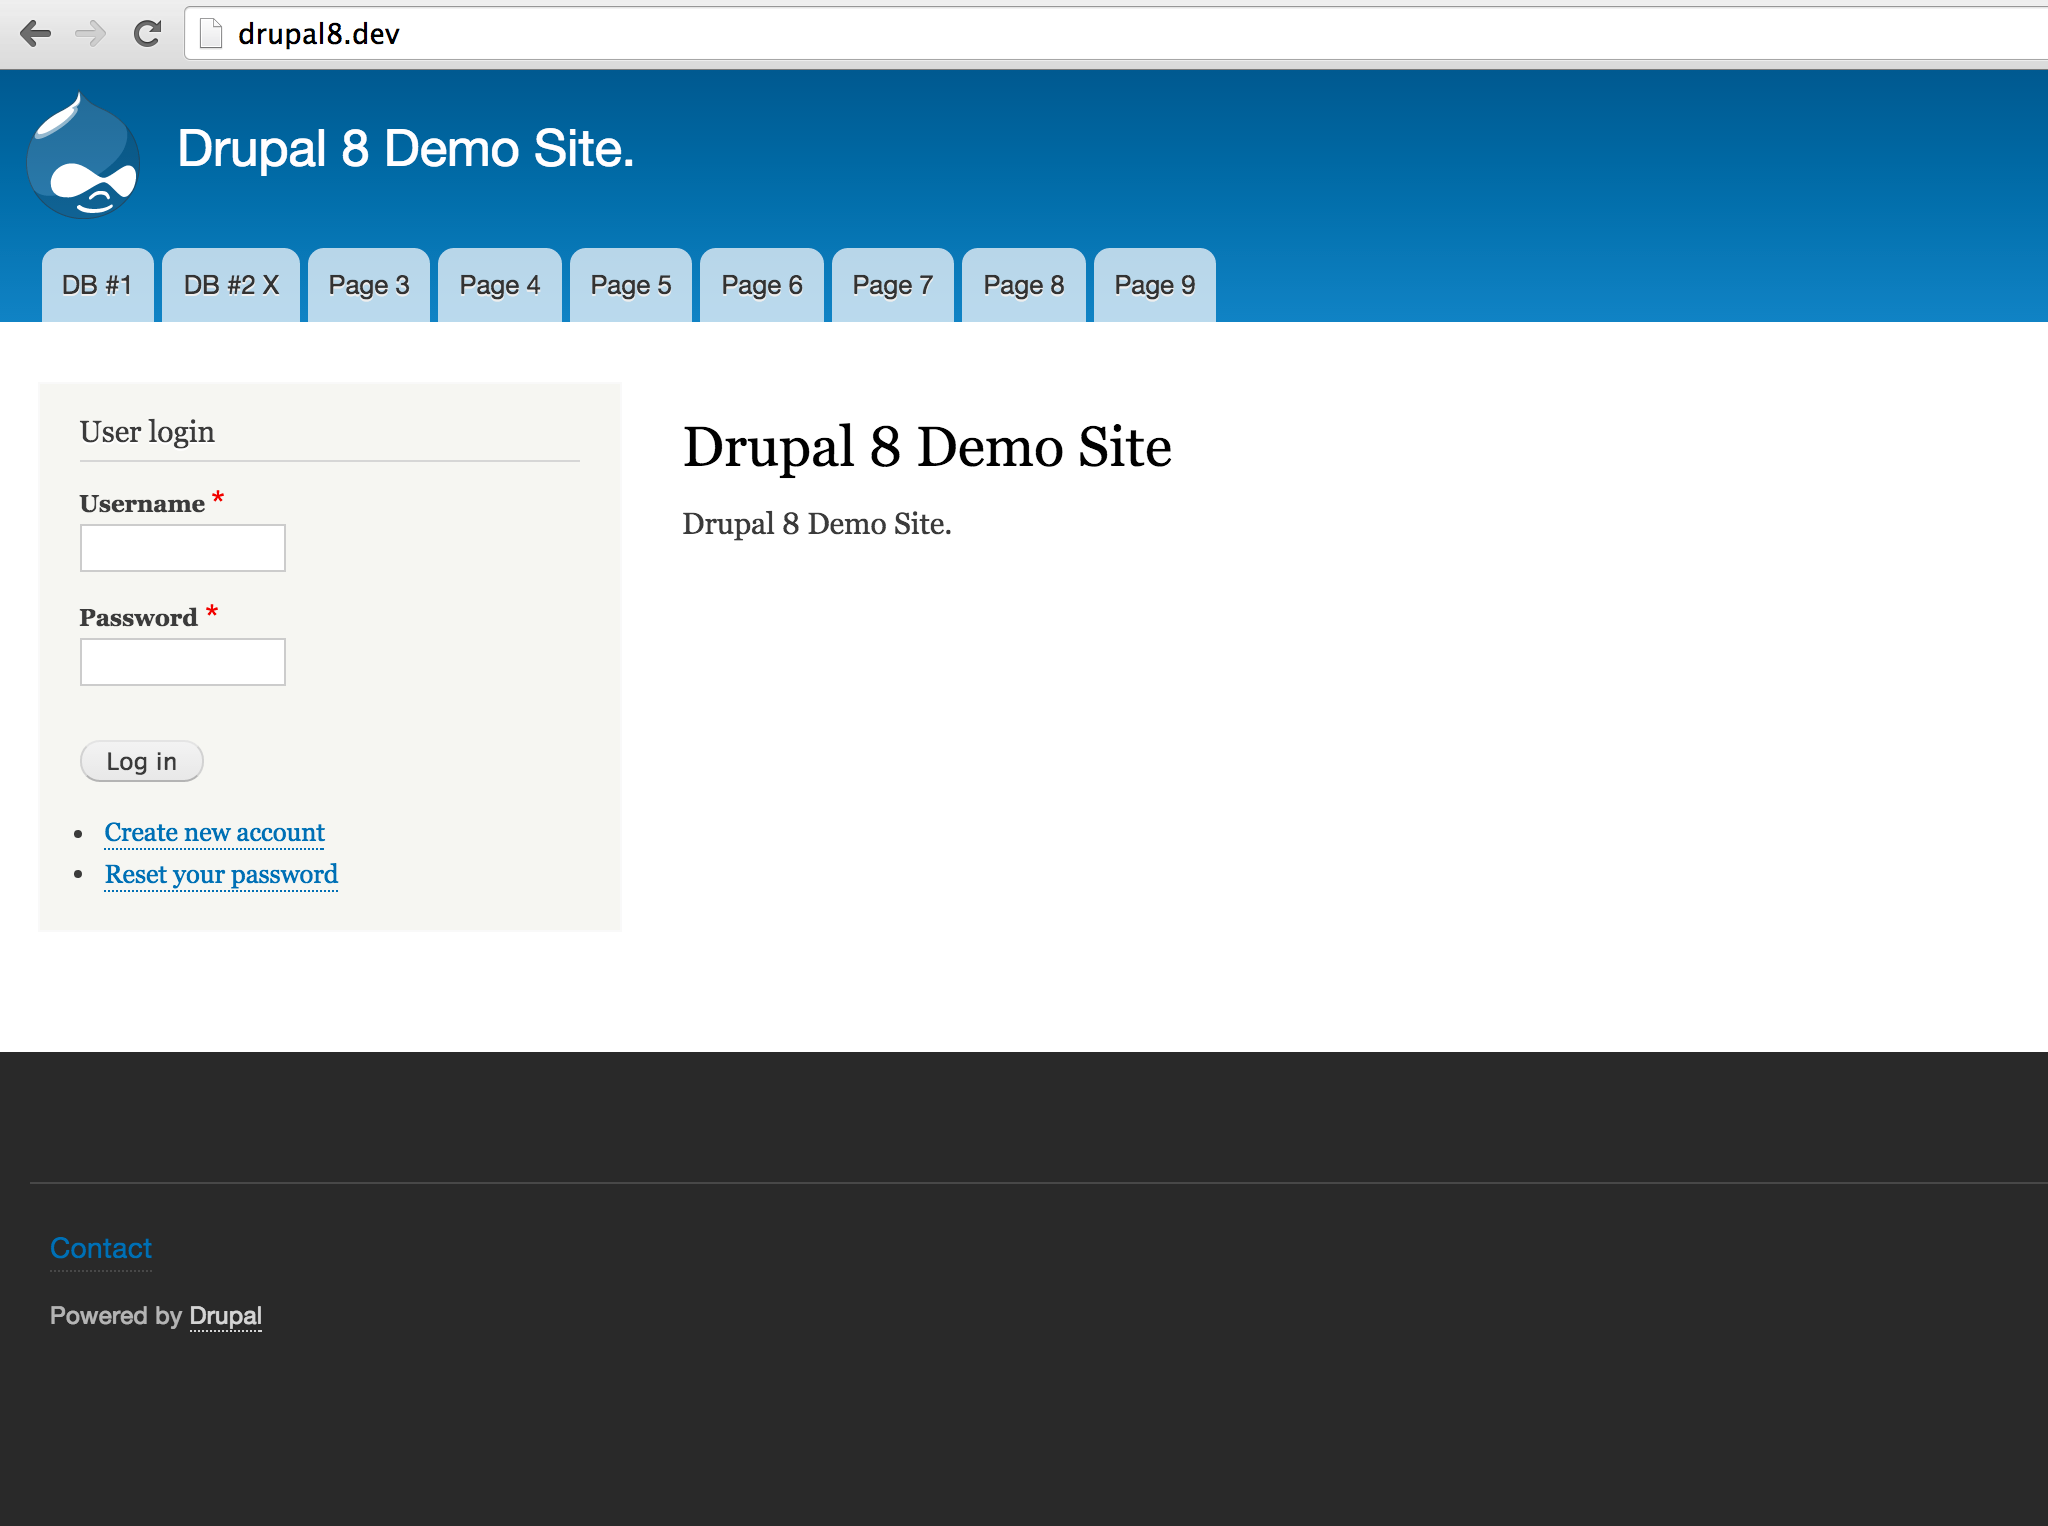
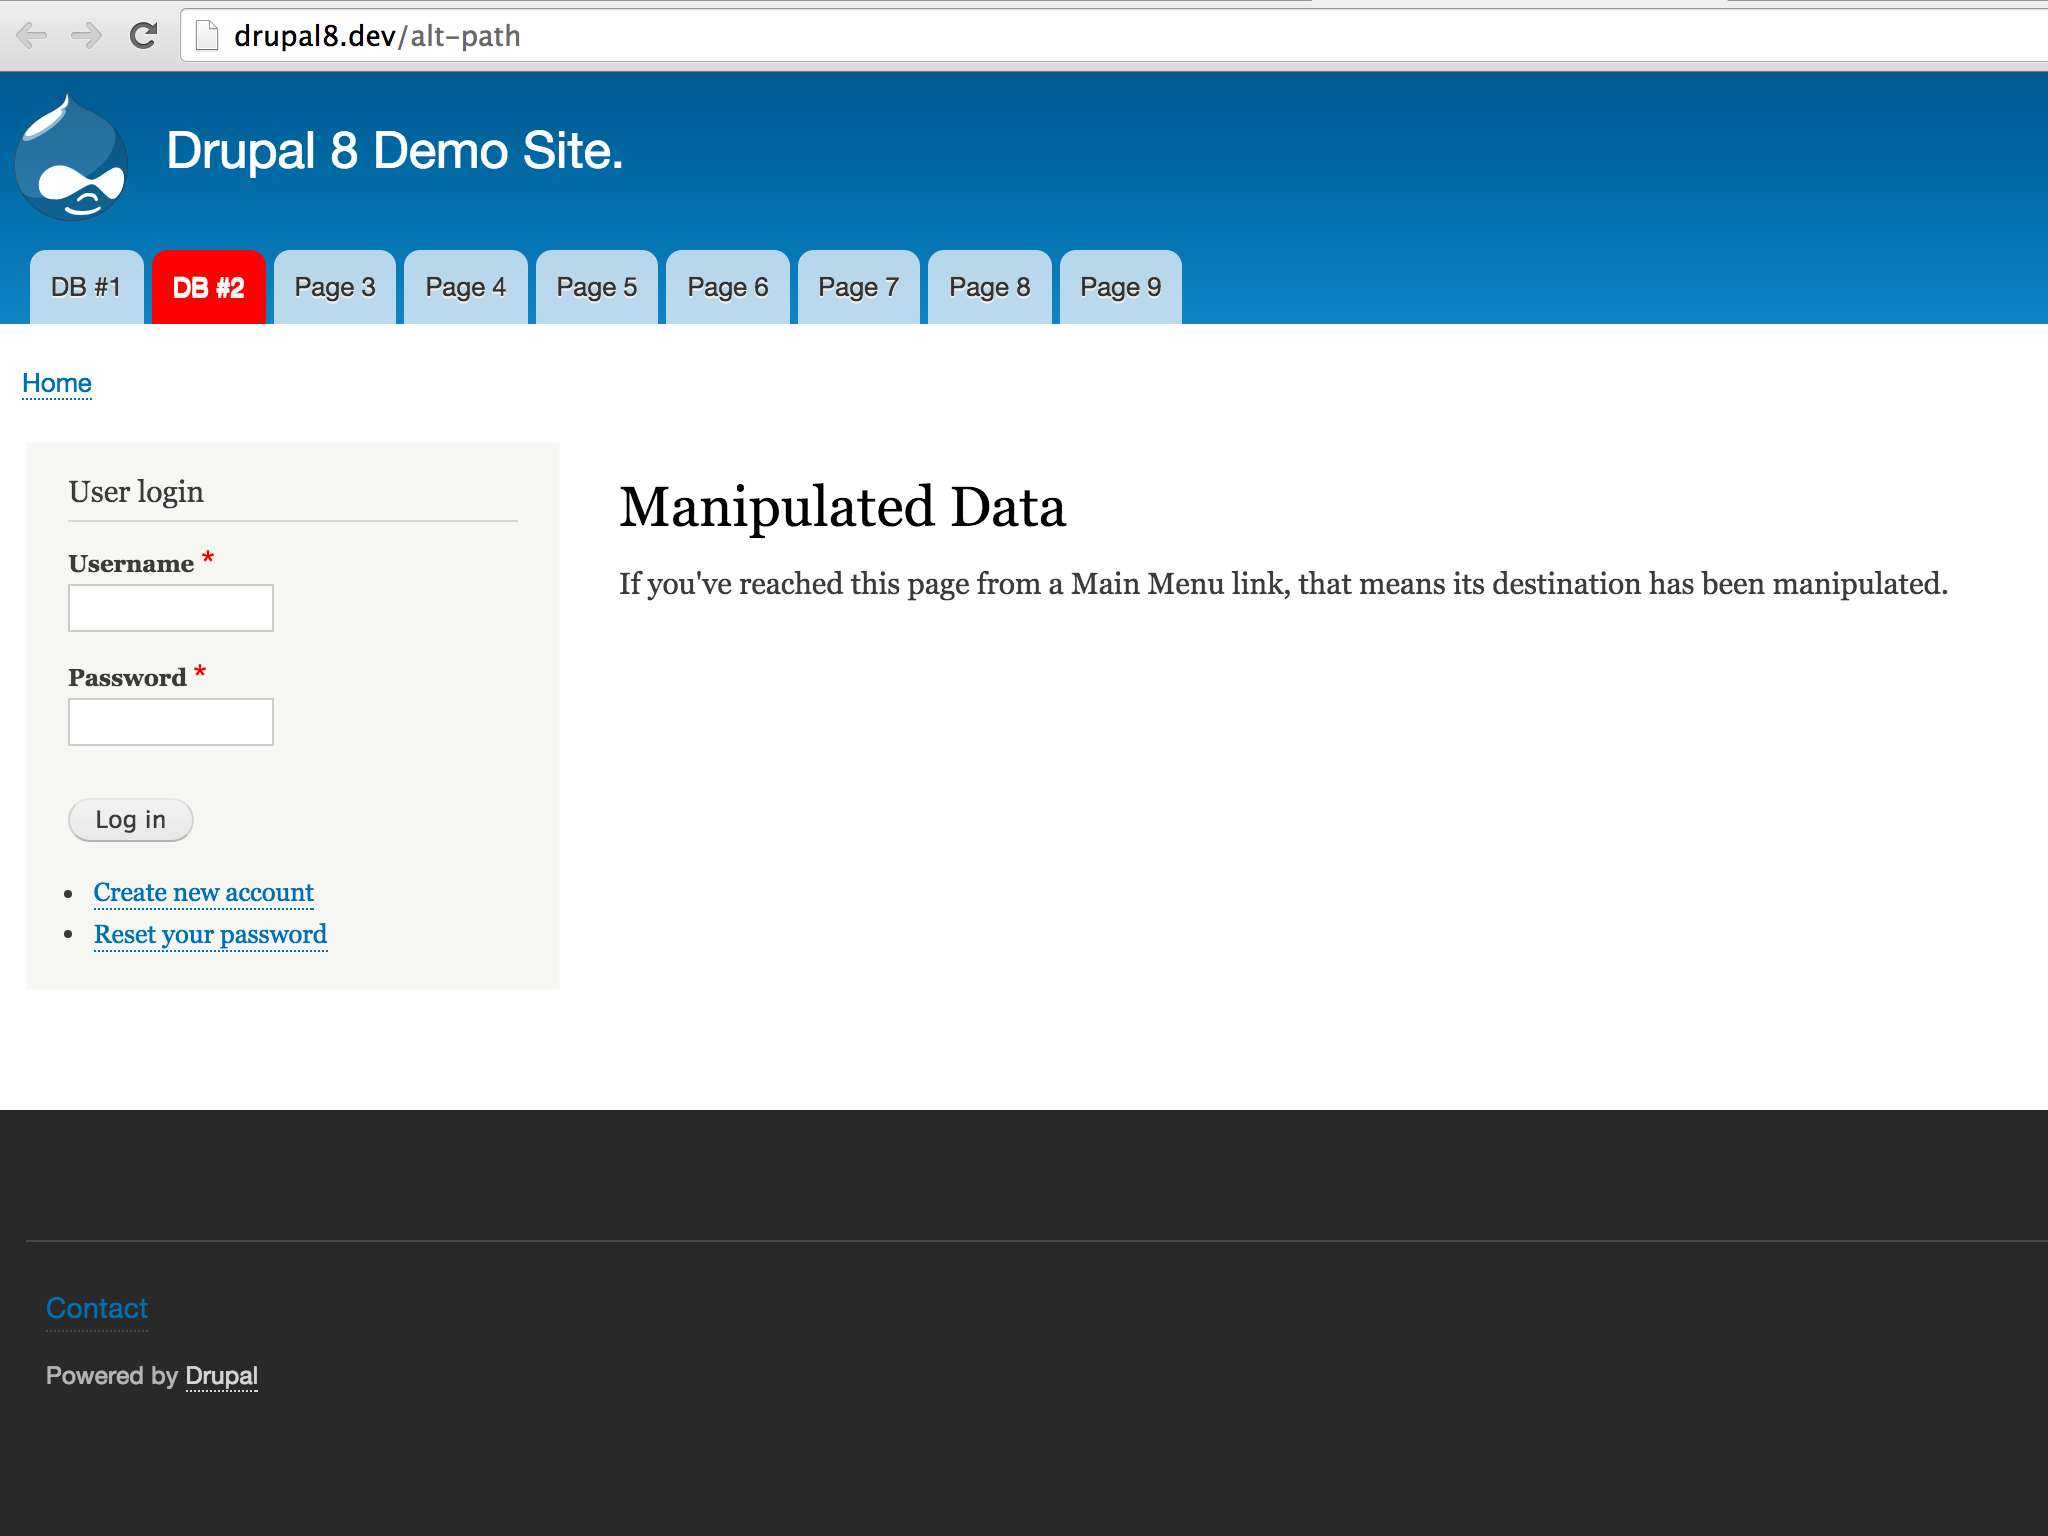
Updat method 2 for D8 to use custom module (took for everrrr). Update screenshots

diff --git a/index.html b/index.html
@@ -250,13 +250,13 @@
             </div>
           </section>
           <section data-transition="convex">
-            <img data-src="images/m1_d7.gif" class="screenshot" />
+            <video controls data-autoplay data-src="videos/m1_d7.mp4" type="video/mp4" class="screenshot"></video>
           </section>
           <section data-transition="convex">
             <img data-src="images/m1_d7_result.png" class="screenshot" />
           </section>
           <section data-transition="convex">
-            <img data-src="images/m1_d8.gif" class="screenshot" />
+            <video controls data-autoplay data-src="videos/m1_d8.mp4" type="video/mp4" class="screenshot"></video>
           </section>
           <section data-transition="convex">
             <img data-src="images/m1_d8_result.png" class="screenshot" />
@@ -299,17 +299,51 @@
             </div>
           </section>
           <section data-transition="convex">
-            <img data-src="images/m2_d7.gif" class="screenshot" />
+            <video controls data-autoplay data-src="videos/m2_d7.mp4" type="video/mp4" class="screenshot"></video>
           </section>
           <section data-transition="convex">
             <img data-src="images/m2_d7_result.png" class="screenshot" />
           </section>
           <section data-transition="convex">
-            <p>WRITE A CUSTOM MODULE!!</p>
+            <img data-src="images/m2_d8.png" class="screenshot" />
+          </section>
+          <section data-transition="convex">
+            <p>Screenshot of cusstom module structure</p>
+          </section>
+          <section data-transition="convex">
+            <pre><code class="php hljs" data-trim>
+/**
+ * @file Contains dflex_demo.module.
+ */
+use Drupal\Core\Entity\EntityInterface;
+use Drupal\menu_link_content\Entity\MenuLinkContent;
+/**
+ * Implements hook_entity_update().
+ */
+function dflex_demo_entity_update(EntityInterface $entity) {
+  if ($entity instanceof MenuLinkContent) {
+    if ($entity->getTitle() == 'DB #2' && $entity->getMenuName() == 'main') {
+      db_update('menu_tree')
+        ->fields(array(
+          'options' => serialize(array(
+              'attributes' => array(
+                'style' => 'background-color:red;color:#fff',
+                'target' => '_blank',
+              ),
+            )),
+        ))
+        ->condition('id', 'menu_link_content:' . $entity->uuid())
+        ->execute();
+    }
+  }
+}
+            </code></pre>
+          </section>
+          <section>
+            <p>Video of enabling new module, editing menu linke</p>
             <img data-src="images/m2_d8.gif" class="screenshot" />
           </section>
           <section data-transition="convex">
-            <p>Update Screenshot!!</p>
             <img data-src="images/m2_d8_result.png" class="screenshot" />
           </section>
         </section>
@@ -359,7 +393,6 @@
             <img data-src="images/m3_d8.gif" class="screenshot" />
           </section>
           <section data-transition="convex">
-            <p>Update Screenshot</p>
             <img data-src="images/m3_d8_result.png" class="screenshot" />
           </section>
           <section data-transition="convex">
@@ -370,7 +403,6 @@
             <img data-src="images/m3_d8_alt_result.png" class="screenshot" />
           </section>
           <section data-transition="convex">
-            <p>update screenshot</p>
             <img data-src="images/m3_d8_alt_result_bad.png" class="screenshot" />
           </section>
         </section>
@@ -447,25 +479,21 @@ function my_bartik_links__system_main_menu($variables) {
             <img data-src="images/m4_d8.png" class="screenshot" />
           </section>
           <section data-transition="convex">
-            <p>Update to module hook</p>
 <pre><code class="php hljs" data-trim>
-  /**
- * Implements hook_preprocess_HOOK() for menu.html.twig.
+/**
+ * Implements hook_preprocess_HOOK().
  */
-function my_bartik_preprocess_menu(&$variables) {
-  $variables['attributes']['class'][] = 'clearfix';
+function dflex_demo_preprocess_menu(&$variables) {
   if ($variables['theme_hook_original'] == 'menu__main') {
     foreach ($variables['items'] as &$menu_link) {
       if ($menu_link['url']->toString() == '/node/4') {
         $menu_link['title'] = 'SS #1';
-        $options = array(
+        $menu_link['url'] = \Drupal\Core\Url::fromUri('entity:node/11', array(
           'attributes' => array(
             'style' => 'background-color:yellow;color:#000',
             'target' => '_blank',
           ),
-        );
-        $url = \Drupal\Core\Url::fromUri('entity:node/11', $options);
-        $menu_link['url'] = $url;
+        ));
       }
     }
   }
@@ -473,7 +501,6 @@ function my_bartik_preprocess_menu(&$variables) {
 </code></pre>
           </section>
           <section data-transition="convex">
-            <p>Update screenshot</p>
             <img data-src="images/m4_d8_result.png" class="screenshot" />
           </section>
         </section>
@@ -575,7 +602,6 @@ class MenuLinkTree implements MenuLinkTreeInterface {
             </code></pre>
           </section>
           <section data-transition="convex">
-            <p>UPDATE SCREENSHOT</p>
             <img data-src="images/m5_d8_result.png" class="screenshot" />
           </section>
           <section data-transition="convex">
@@ -682,7 +708,7 @@ class DflexDemoMenuLinkTree extends MenuLinkTree {
           $item['title'] = 'SS #3';
           $item['url'] = \Drupal\Core\Url::fromUri('entity:node/11', array(
             'attributes' => array(
-              'style' => 'background-color:red;color:#fff',
+              'style' => 'background-color:orange;color:#000',
               'target' => '_blank',
             )));
         }
@@ -693,13 +719,7 @@ class DflexDemoMenuLinkTree extends MenuLinkTree {
 }
             </code></pre>
           </section>
-
           <section data-transition="convex">
-            <p>UPDATE GIF</p>
-            <img data-src="images/m6_d8.gif" class="screenshot" />
-          </section>
-          <section data-transition="convex">
-            <p>Update screenshot</p>
             <img data-src="images/m6_d8_result.png" class="screenshot" />
           </section>
         </section>

diff --git a/css/flex.css b/css/flex.css
@@ -38,7 +38,7 @@
 
 .screenshot {
   display: inline-block;
-  max-height: 500px !important;
+  max-height: 600px !important;
 }
 
 .list-header {
